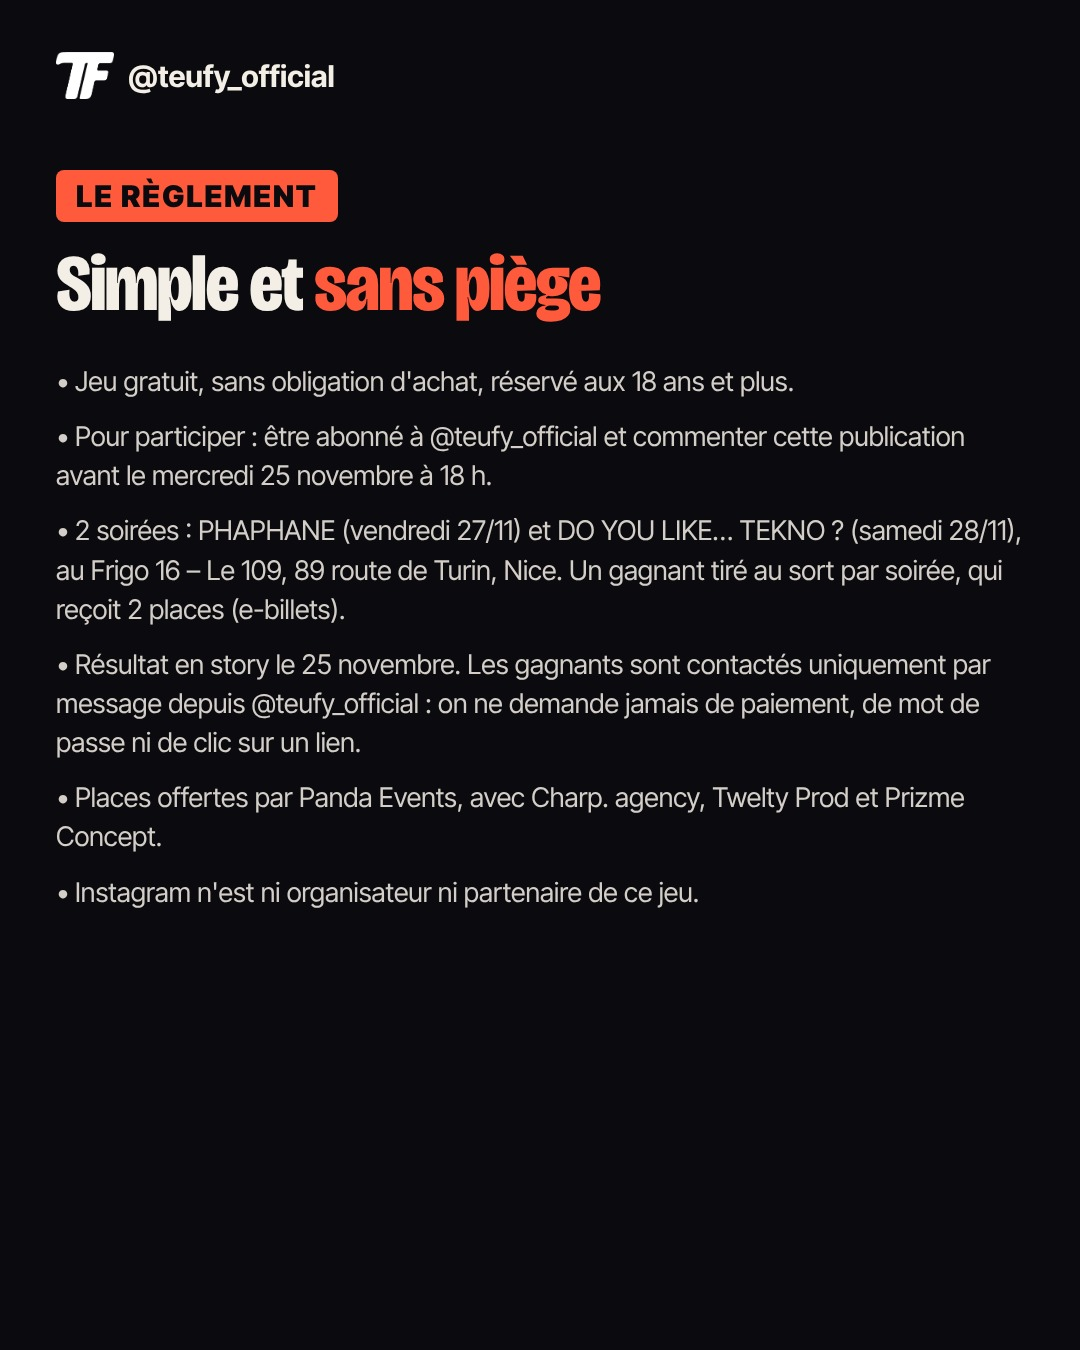
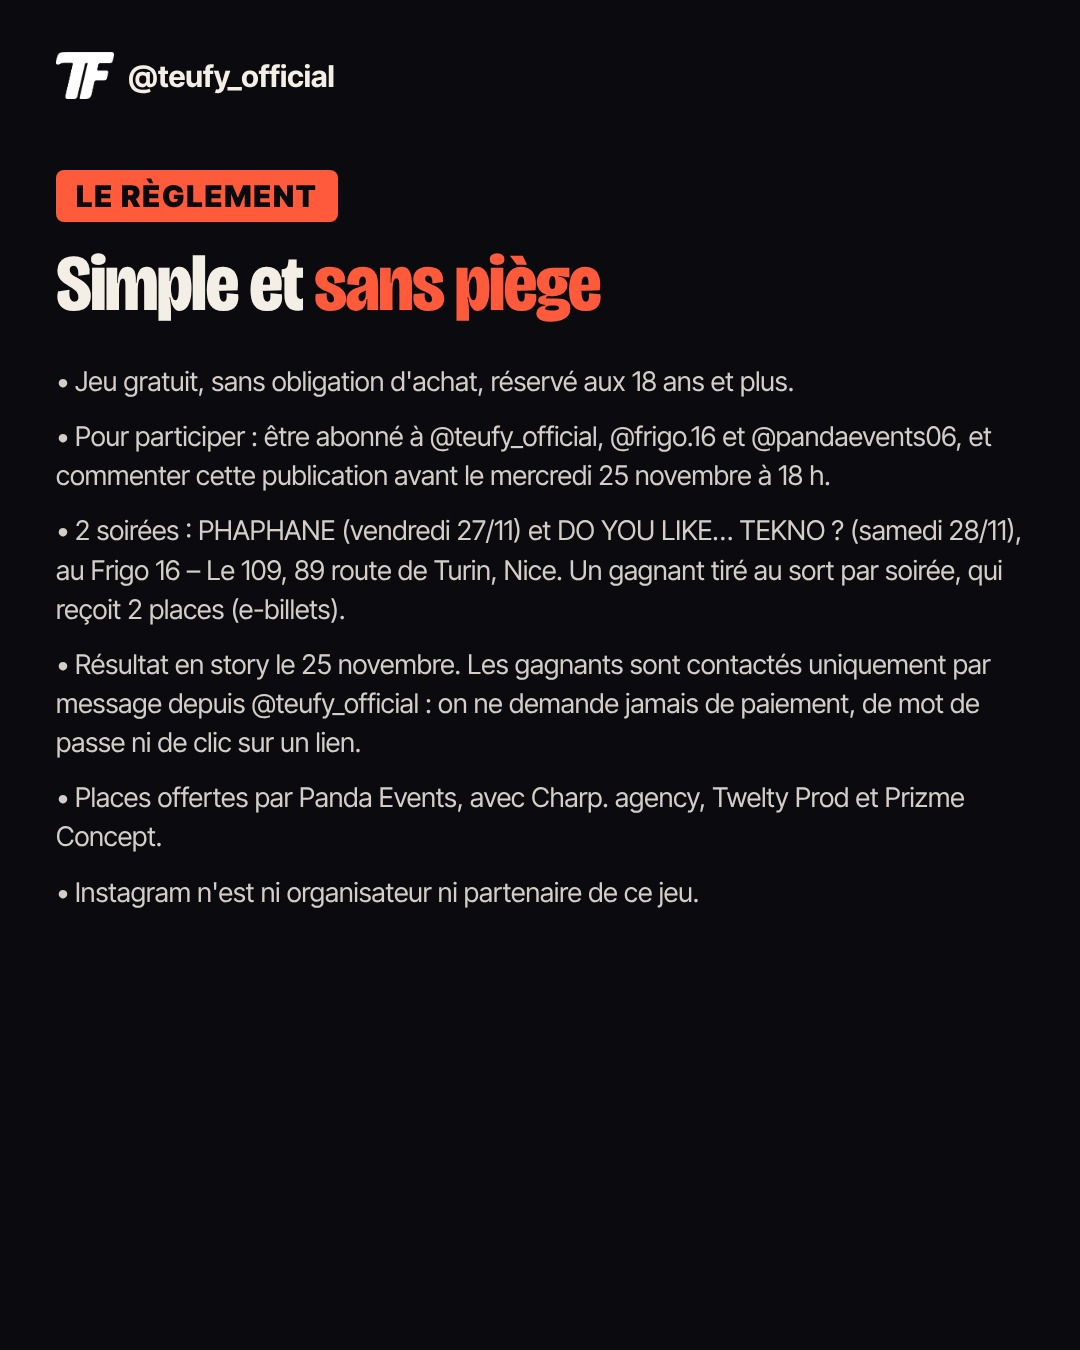
Concours Frigo 16 : retours de Charp. agency (sans « Soirée 1/2 », sans nombre de places sur les slides, « swipe », encadré « résultat en story », abonnement à @frigo.16 et @pandaevents06) ; toujours en attente de validation
Claude-Session: https://claude.ai/code/session_01UDWYmWuGkMKcV3nZgYu5nu

Changed region(s): [[0.0611, 0.3111, 0.9167, 0.3733]]

diff --git a/media/posts-prets/2026-11-19-concours-frigo16/sources/visuels.html b/media/posts-prets/2026-11-19-concours-frigo16/sources/visuels.html
@@ -47,24 +47,24 @@ body{background:#000;font-family:IT,sans-serif;color:var(--creme)}
   <div class="titre" style="font-size:58px;margin-top:6px;white-space:nowrap">DO YOU LIKE… TEKNO&nbsp;?</div>
   <div style="font-size:28px;font-weight:600;opacity:.85;margin-top:6px">Tekno · Acidcore · Tribe</div></div>
  <div style="position:absolute;left:56px;right:56px;bottom:62px;border-top:2px solid rgba(244,239,230,.25);padding-top:30px">
-  <div class="titre" style="font-size:84px">Gagne tes places : <em>2 par soirée</em></div>
-  <div style="display:flex;justify-content:space-between;align-items:baseline;margin-top:14px"><div style="font-size:32px;font-weight:600;opacity:.9">Abonne-toi et commente pour jouer</div><div style="font-size:26px;font-weight:700;opacity:.8">glisse →</div></div></div>
+  <div class="titre" style="font-size:84px">Gagne tes <em>places</em></div>
+  <div style="display:flex;justify-content:space-between;align-items:baseline;margin-top:14px"><div style="font-size:32px;font-weight:600;opacity:.9">Abonne-toi aux 3 comptes et commente pour jouer</div><div style="font-size:26px;font-weight:700;opacity:.8">swipe →</div></div></div>
 </div>
 
 <!-- 2 · Phaphane -->
 <div class="v" id="s2" style="background:#0d1b26">
  <div class="sign"><img src="logo.png">@teufy_official</div>
- <div style="position:absolute;left:56px;top:140px"><span class="etq">Soirée 1 · ven. 27/11 · 20 h</span></div>
+ <div style="position:absolute;left:56px;top:140px"><span class="etq">Ven. 27/11 · 20 h</span></div>
  <img class="affiche" src="phaphane.jpg" style="left:180px;top:225px;width:720px;border-radius:26px">
- <div class="carte" style="bottom:56px;top:auto;padding:26px 36px"><span class="pill">2 places à gagner</span><div style="font-size:38px;font-weight:800;margin-top:14px">Commente <span style="color:var(--corail)">PHAPHANE</span></div></div>
+ <div class="carte" style="bottom:56px;top:auto;padding:26px 36px"><span class="pill">Concours</span><div style="font-size:38px;font-weight:800;margin-top:14px">Commente&nbsp;<span style="color:var(--corail)">PHAPHANE</span></div></div>
 </div>
 
 <!-- 3 · Tekno -->
 <div class="v" id="s3" style="background:#1a0505">
  <div class="sign"><img src="logo.png">@teufy_official</div>
- <div style="position:absolute;left:56px;top:140px"><span class="etq">Soirée 2 · sam. 28/11 · 20 h – 2 h</span></div>
+ <div style="position:absolute;left:56px;top:140px"><span class="etq">Sam. 28/11 · 20 h – 2 h</span></div>
  <img class="affiche" src="tekno.jpg" style="left:185px;top:230px;width:710px;height:820px;object-fit:cover;object-position:top;border-radius:26px">
- <div class="carte" style="bottom:56px;padding:26px 36px"><span class="pill">2 places à gagner</span><div style="font-size:38px;font-weight:800;margin-top:14px">Commente <span style="color:var(--corail)">TEKNO</span></div></div>
+ <div class="carte" style="bottom:56px;padding:26px 36px"><span class="pill">Concours</span><div style="font-size:38px;font-weight:800;margin-top:14px">Commente&nbsp;<span style="color:var(--corail)">TEKNO</span></div></div>
 </div>
 
 <!-- 4 · comment participer -->
@@ -73,10 +73,10 @@ body{background:#000;font-family:IT,sans-serif;color:var(--creme)}
  <div style="position:absolute;left:56px;right:56px;top:170px">
   <span class="etq">Pour participer</span>
   <div class="titre" style="font-size:96px;margin:24px 0 60px">2 étapes, <em>c'est tout</em></div>
-  <div class="etape"><b>1</b><div>Abonne-toi à <span>@teufy_official</span></div></div>
-  <div class="etape"><b>2</b><div>Commente <span>PHAPHANE</span>, <span>TEKNO</span> ou les deux</div></div>
+  <div class="etape"><b>1</b><div>Abonne-toi à <span>@teufy_official</span>, <span>@frigo.16</span> et <span>@pandaevents06</span></div></div>
+  <div class="etape"><b>2</b><div>Commente&nbsp;<span>PHAPHANE</span>, <span>TEKNO</span> ou les deux</div></div>
   <div style="font-size:34px;font-weight:600;opacity:.9;margin:-10px 0 50px 126px">Astuce : tague la personne qui viendra avec toi</div>
-  <div class="carte" style="position:relative;left:0;right:0"><div style="font-size:40px;font-weight:800">Tirage au sort le <span style="color:var(--corail)">mercredi 25 novembre</span></div><div style="font-size:32px;margin-top:10px;opacity:.9">Résultat en story · 1 gagnant par soirée, qui repart avec 2 places</div></div>
+  <div class="carte" style="position:relative;left:0;right:0"><div style="font-size:40px;font-weight:800">Tirage au sort le <span style="color:var(--corail)">mercredi 25 novembre</span></div><div style="font-size:32px;margin-top:10px;opacity:.9">Résultat en story</div></div>
  </div>
 </div>
 
@@ -88,7 +88,7 @@ body{background:#000;font-family:IT,sans-serif;color:var(--creme)}
   <div class="titre" style="font-size:80px;margin:24px 0 40px">Simple et <em>sans piège</em></div>
   <div class="petit">
    <p>• Jeu gratuit, sans obligation d'achat, réservé aux 18 ans et plus.</p>
-   <p>• Pour participer : être abonné à @teufy_official et commenter cette publication avant le mercredi 25 novembre à 18 h.</p>
+   <p>• Pour participer : être abonné à @teufy_official, @frigo.16 et @pandaevents06, et commenter cette publication avant le mercredi 25 novembre à 18 h.</p>
    <p>• 2 soirées : PHAPHANE (vendredi 27/11) et DO YOU LIKE… TEKNO ? (samedi 28/11), au Frigo 16 – Le 109, 89 route de Turin, Nice. Un gagnant tiré au sort par soirée, qui reçoit 2 places (e-billets).</p>
    <p>• Résultat en story le 25 novembre. Les gagnants sont contactés uniquement par message depuis @teufy_official : on ne demande jamais de paiement, de mot de passe ni de clic sur un lien.</p>
    <p>• Places offertes par Panda Events, avec Charp. agency, Twelty Prod et Prizme Concept.</p>
@@ -102,13 +102,13 @@ body{background:#000;font-family:IT,sans-serif;color:var(--creme)}
  <div class="sign" style="top:250px"><img src="logo.png">@teufy_official</div>
  <div style="position:absolute;left:0;right:0;top:340px;text-align:center"><span class="etq" style="font-size:40px">Concours</span></div>
  <img class="affiche" src="phaphane.jpg" style="left:150px;top:440px;width:780px">
- <div class="carte" style="top:1440px;text-align:center"><div class="titre" style="font-size:66px">2 places à gagner</div><div style="font-size:36px;font-weight:700;margin-top:12px">Abonne-toi + commente <span style="color:var(--corail)">PHAPHANE</span> sous notre post concours</div></div>
+ <div class="carte" style="top:1440px;text-align:center"><div class="titre" style="font-size:66px">Gagne tes places</div><div style="font-size:36px;font-weight:700;margin-top:12px">Abonne-toi aux 3 comptes + commente&nbsp;<span style="color:var(--corail)">PHAPHANE</span> sous notre post concours</div></div>
 </div>
 <div class="v story" id="st-tekno"><img class="photo" src="tekno.jpg" style="filter:blur(26px) brightness(.45)">
  <div class="sign" style="top:250px"><img src="logo.png">@teufy_official</div>
  <div style="position:absolute;left:0;right:0;top:340px;text-align:center"><span class="etq" style="font-size:40px">Concours</span></div>
  <img class="affiche" src="tekno.jpg" style="left:170px;top:440px;width:740px;height:940px;object-fit:cover;object-position:top">
- <div class="carte" style="top:1440px;text-align:center"><div class="titre" style="font-size:66px">2 places à gagner</div><div style="font-size:36px;font-weight:700;margin-top:12px">Abonne-toi + commente <span style="color:var(--corail)">TEKNO</span> sous notre post concours</div></div>
+ <div class="carte" style="top:1440px;text-align:center"><div class="titre" style="font-size:66px">Gagne tes places</div><div style="font-size:36px;font-weight:700;margin-top:12px">Abonne-toi aux 3 comptes + commente&nbsp;<span style="color:var(--corail)">TEKNO</span> sous notre post concours</div></div>
 </div>
 <div class="v story" id="st-rappel"><img class="photo" src="dj.jpg" style="filter:brightness(.45)">
  <div class="sign" style="top:250px"><img src="logo.png">@teufy_official</div>
@@ -116,6 +116,6 @@ body{background:#000;font-family:IT,sans-serif;color:var(--creme)}
  <img class="affiche" src="tekno.jpg" style="left:560px;top:440px;width:420px;transform:rotate(5deg)">
  <div style="position:absolute;left:70px;right:70px;top:1110px"><span class="etq" style="font-size:38px">Rappel concours</span>
   <div class="titre" style="font-size:96px;margin:24px 0">Tirage <em>mercredi</em><br>à 18 h</div>
-  <div style="font-size:40px;font-weight:700;line-height:1.3">2 places pour chaque soirée au Frigo 16 · abonne-toi et commente notre post concours</div></div>
+  <div style="font-size:40px;font-weight:700;line-height:1.3">Des places pour chaque soirée au Frigo 16 · abonne-toi aux 3 comptes et commente notre post concours</div></div>
 </div>
 </body></html>
